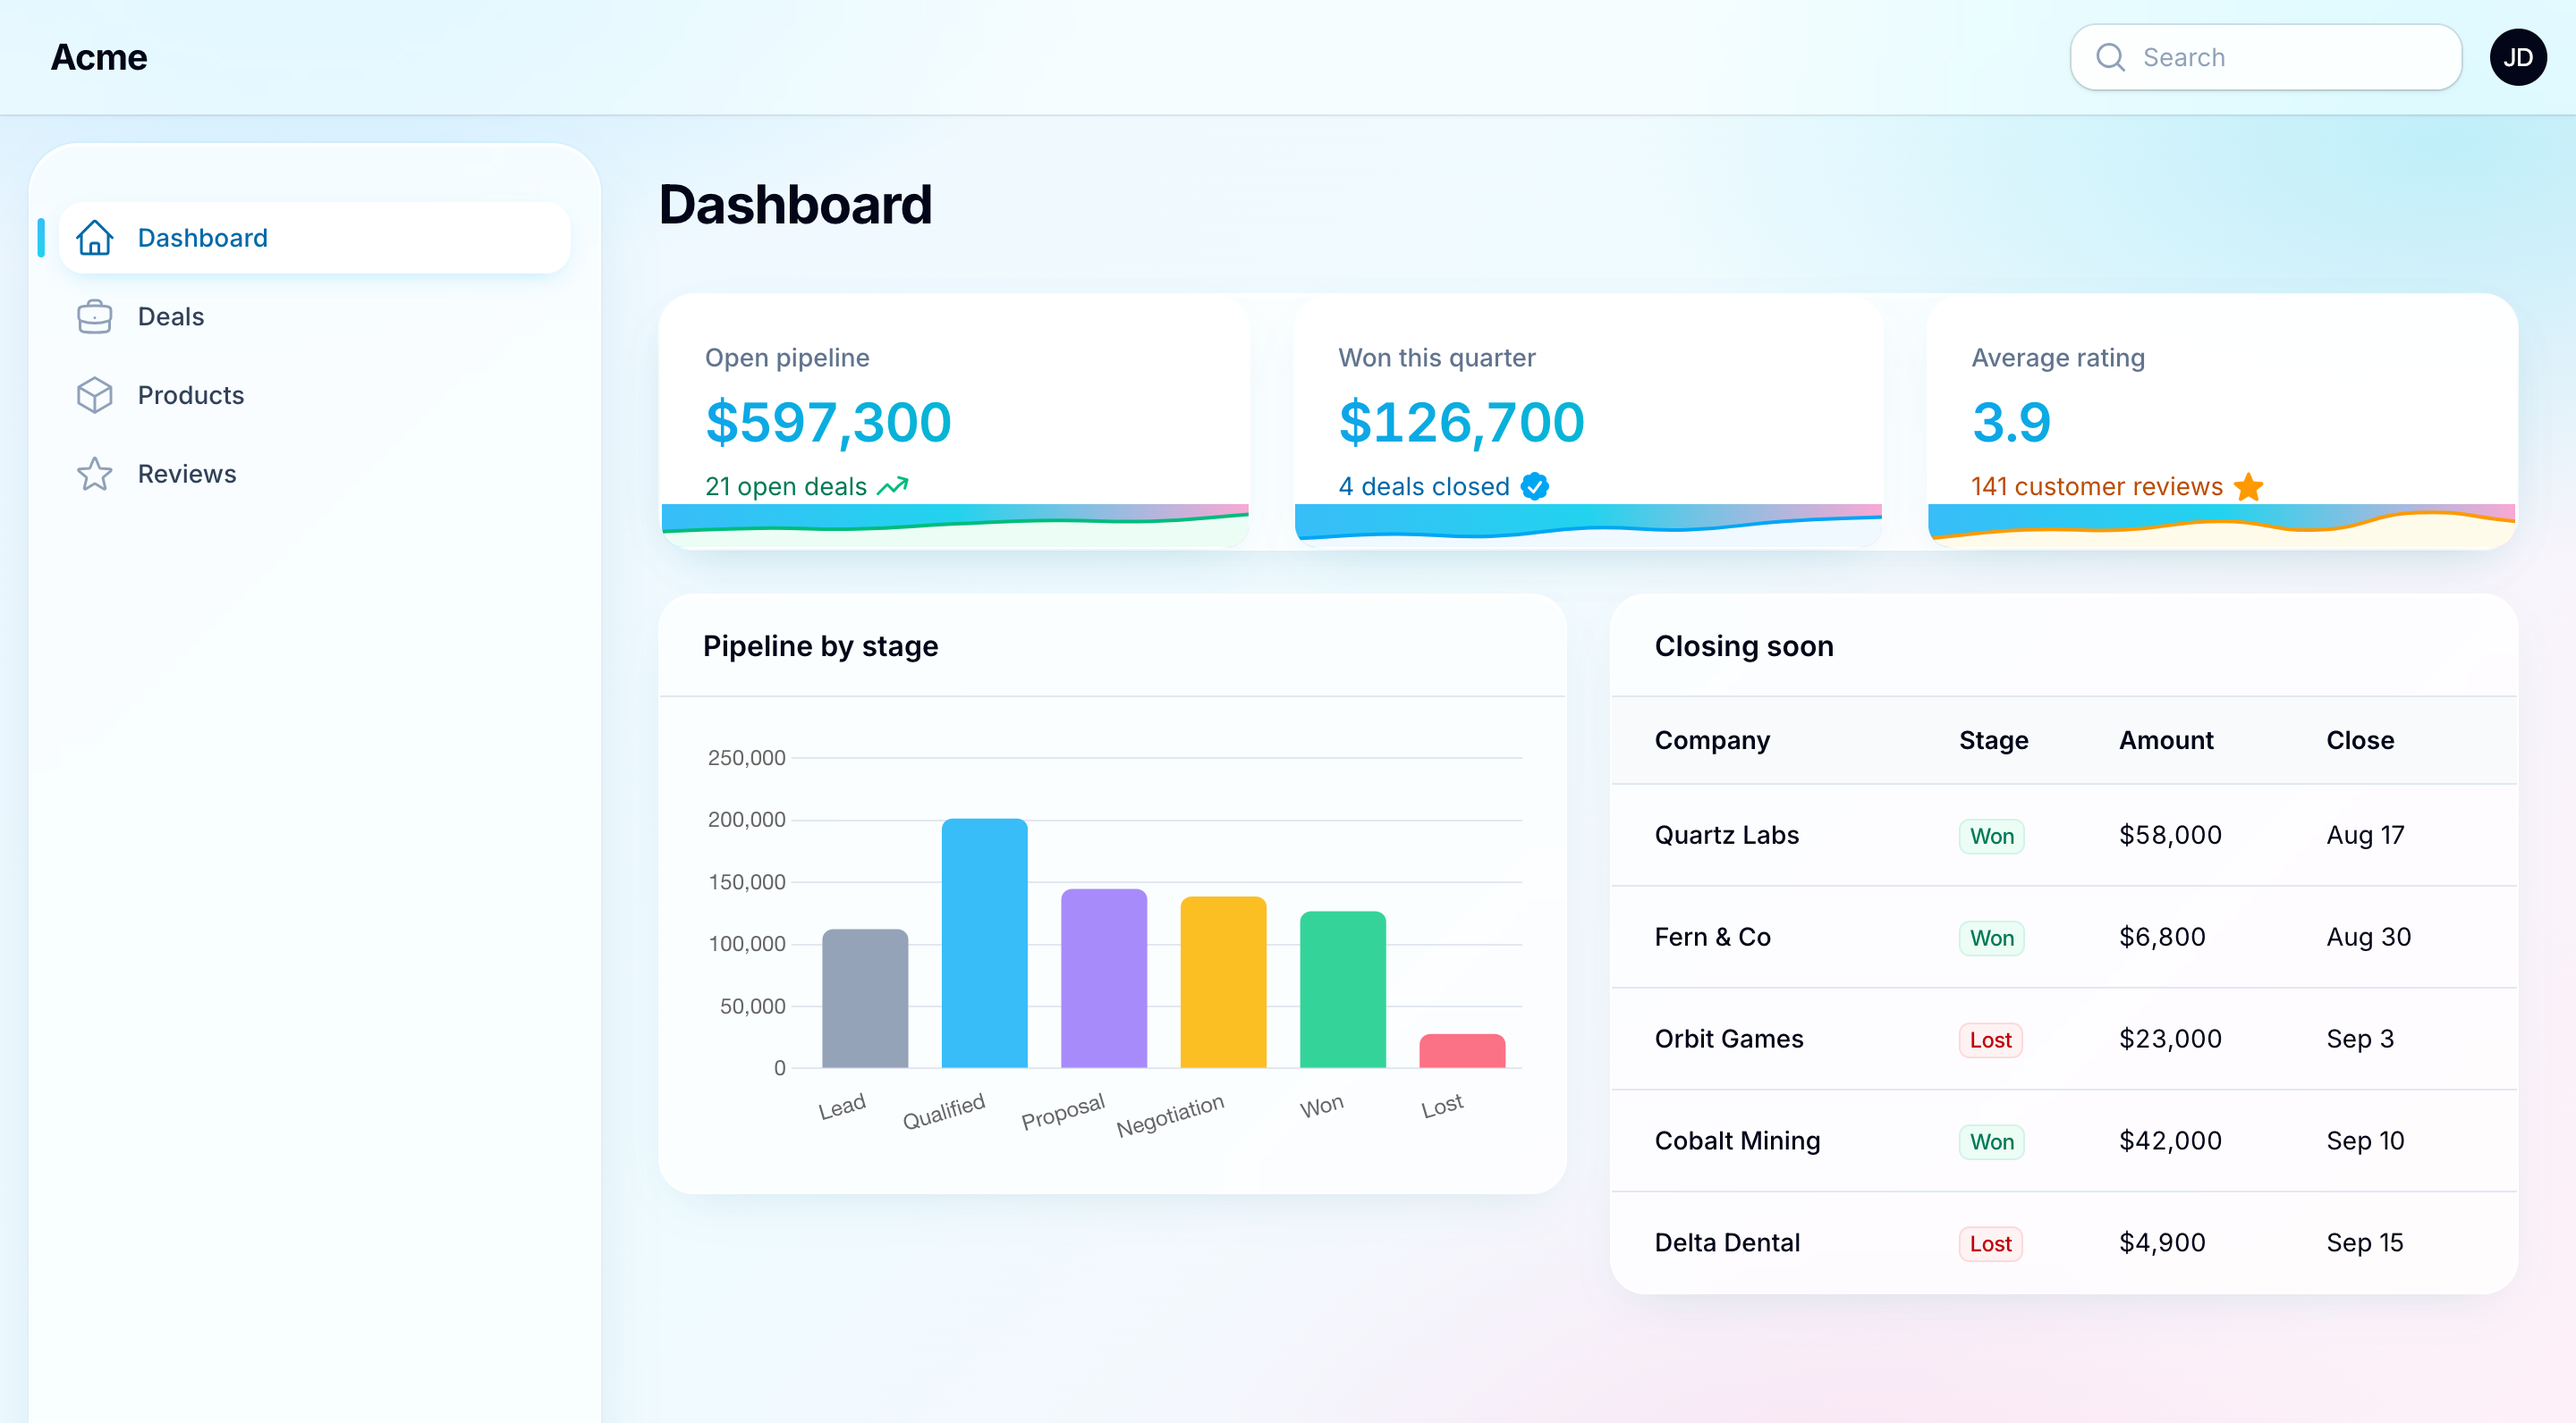
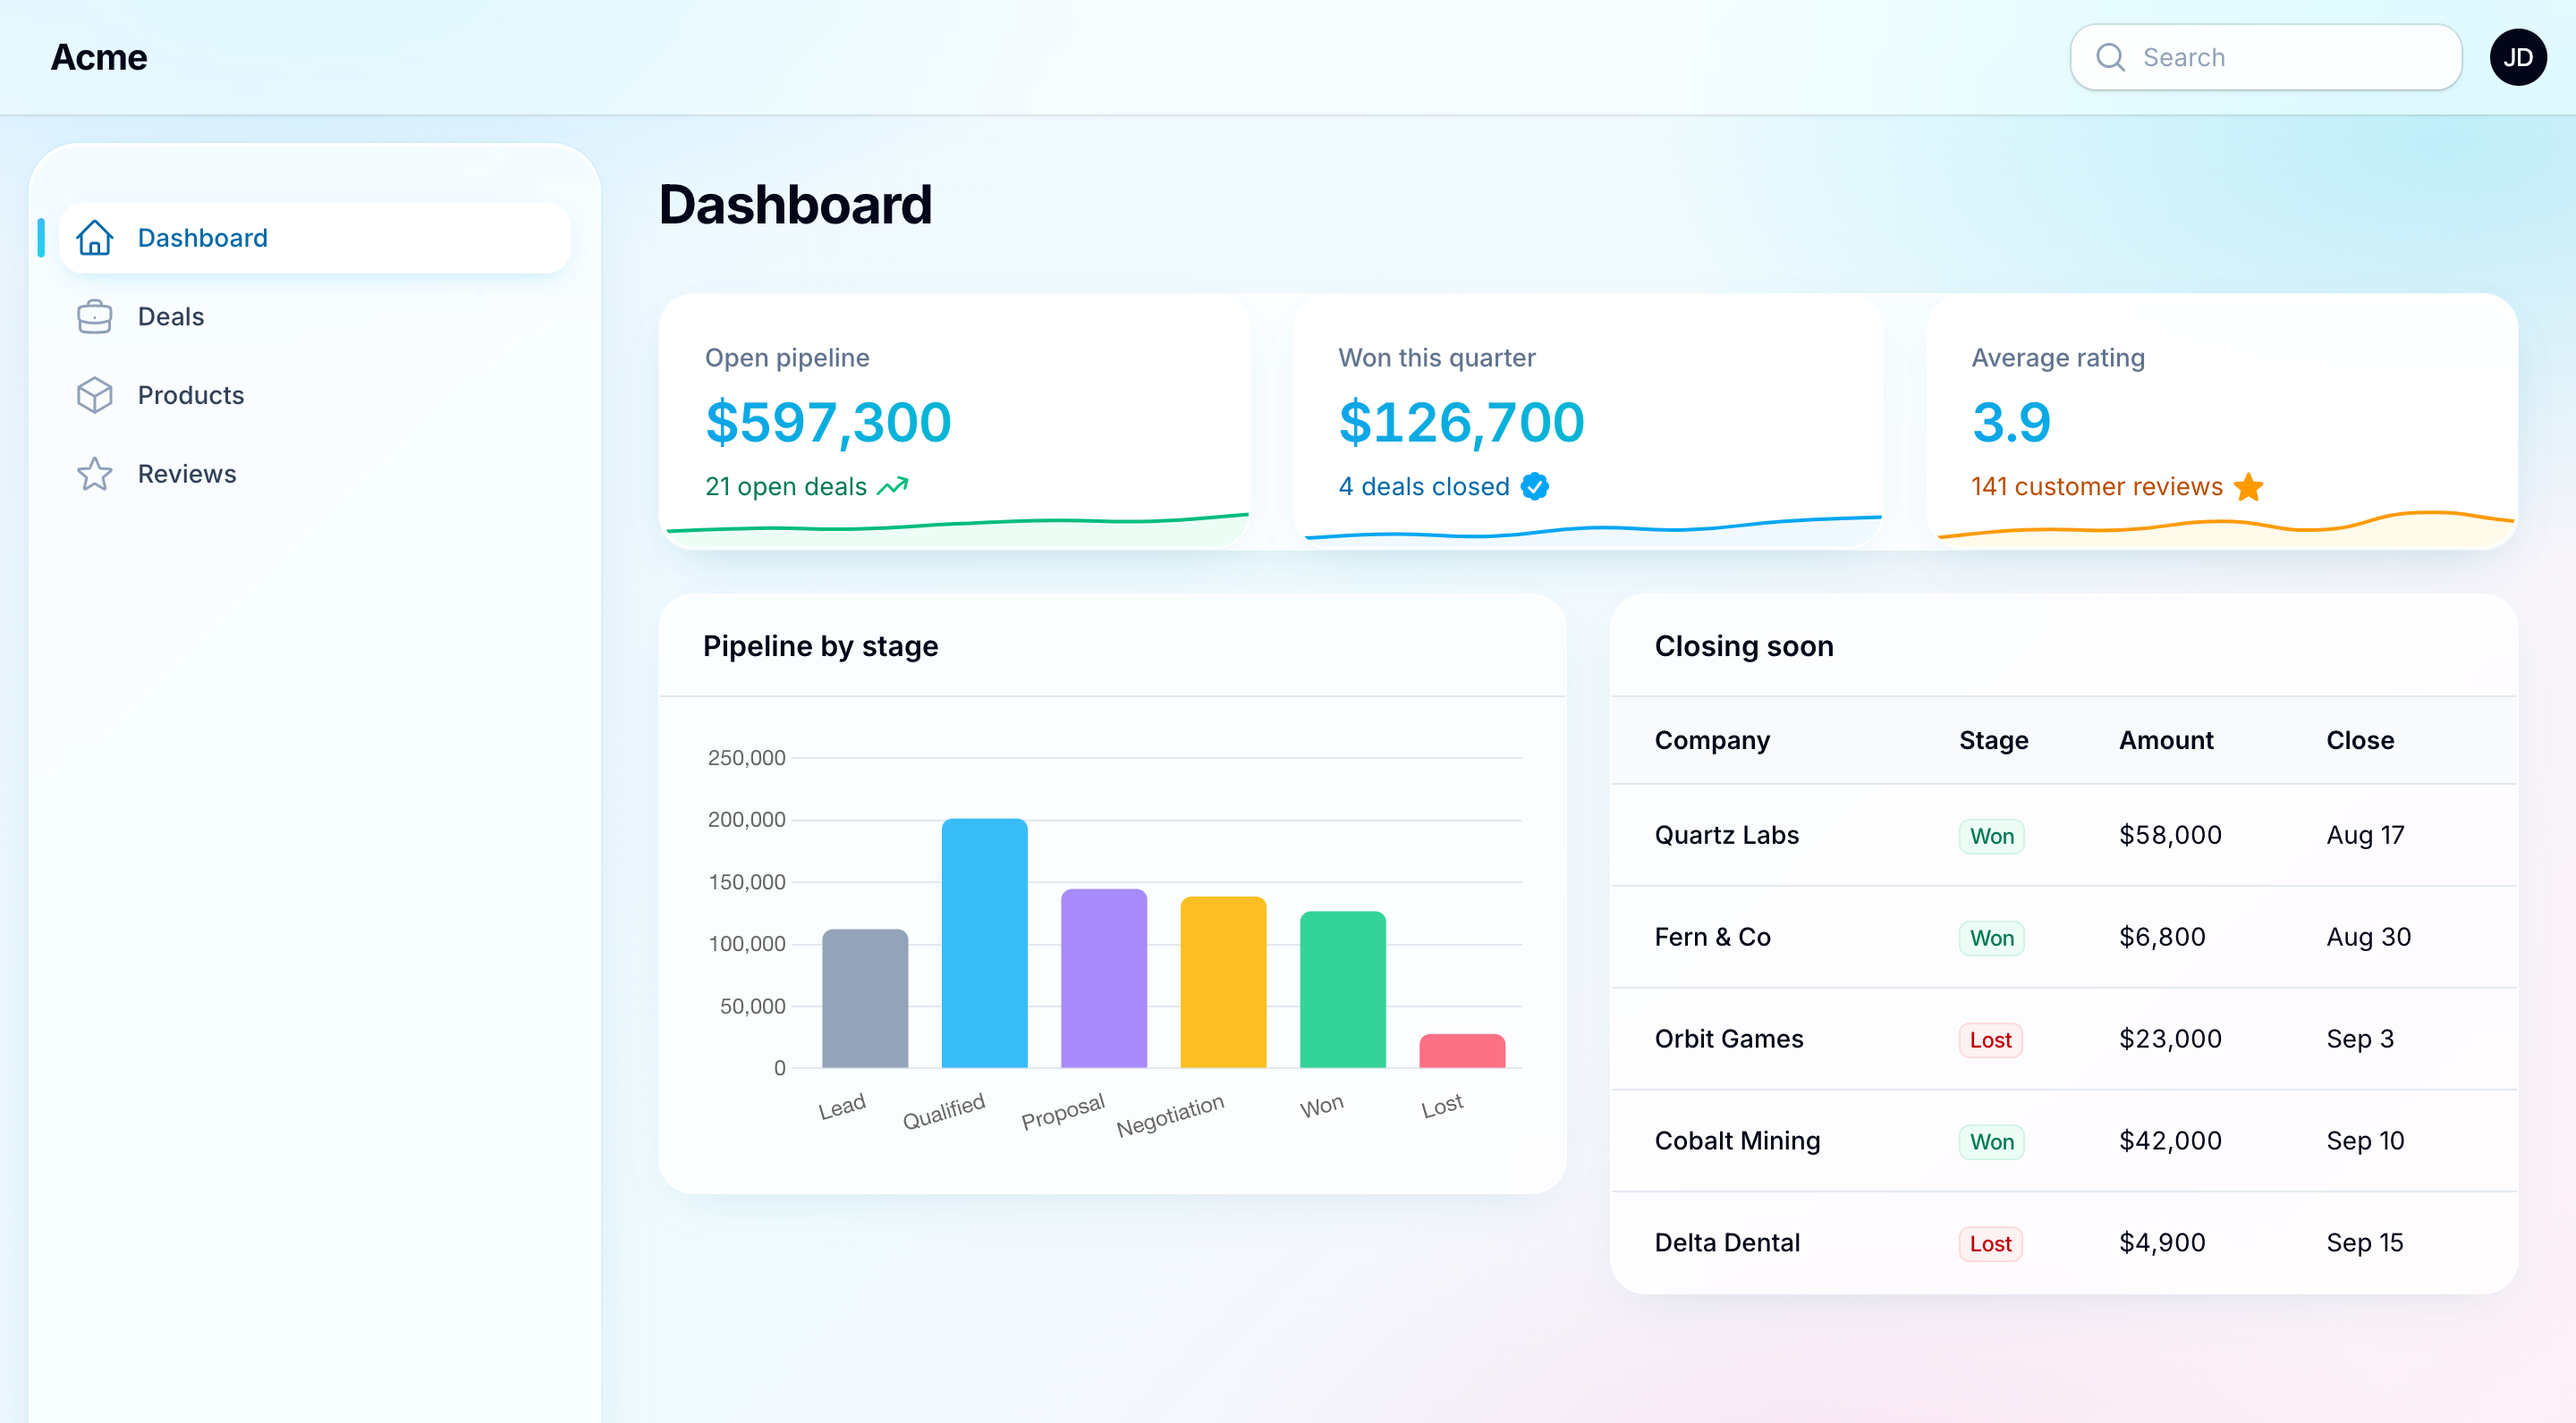
Fix: Aurora no longer paints a gradient band behind each stat's sparkline (the chart strip keeps the card's corner radius); screenshots retaken

Changed region(s): [[0.25, 0.3386, 0.9688, 0.4001]]

diff --git a/resources/css/themes/aurora.css b/resources/css/themes/aurora.css
@@ -171,9 +171,12 @@
     color: transparent;
 }
 
-[data-packstub-theme="aurora"] .fi-wi-stats-overview-stat-chart,
 [data-packstub-theme="aurora"] progress {
     background: var(--pst-iridescent-soft);
+}
+
+[data-packstub-theme="aurora"] .fi-wi-stats-overview-stat-chart {
+    border-radius: 0 0 calc(var(--pst-radius-lg) - 1px) calc(var(--pst-radius-lg) - 1px);
 }
 
 /* Buttons, inputs, badges */

diff --git a/tests/Unit/StylesheetTest.php b/tests/Unit/StylesheetTest.php
@@ -21,3 +21,13 @@ it('scopes every bundled stylesheet to its own theme', function (string $id): vo
 it('leaves the widget wrapper unstyled', function (string $id): void {
     expect(file_get_contents(Themes::find($id)->getStylesheetPath()))->not->toContain('.fi-wi-widget');
 })->with(['aurora', 'midnight']);
+
+// .fi-wi-stats-overview-stat-chart is the strip that holds a stat's sparkline:
+// a background on it draws a solid band across the bottom of the card.
+it('leaves the stat chart strip without a background', function (string $id): void {
+    $css = file_get_contents(Themes::find($id)->getStylesheetPath());
+
+    preg_match_all('/([^{}]*\.fi-wi-stats-overview-stat-chart[^{]*)\{([^}]*)\}/', $css, $rules, PREG_SET_ORDER);
+
+    expect(array_filter($rules, fn (array $rule): bool => str_contains($rule[2], 'background')))->toBeEmpty();
+})->with(['aurora', 'midnight']);
